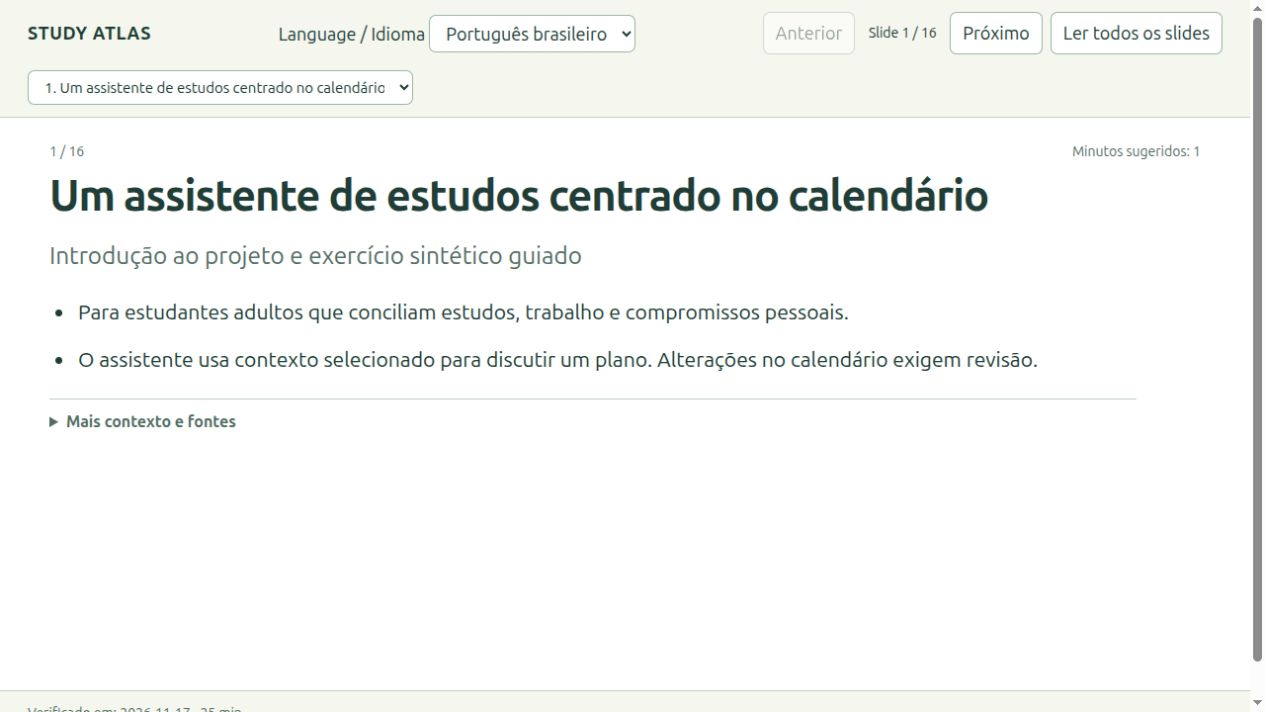
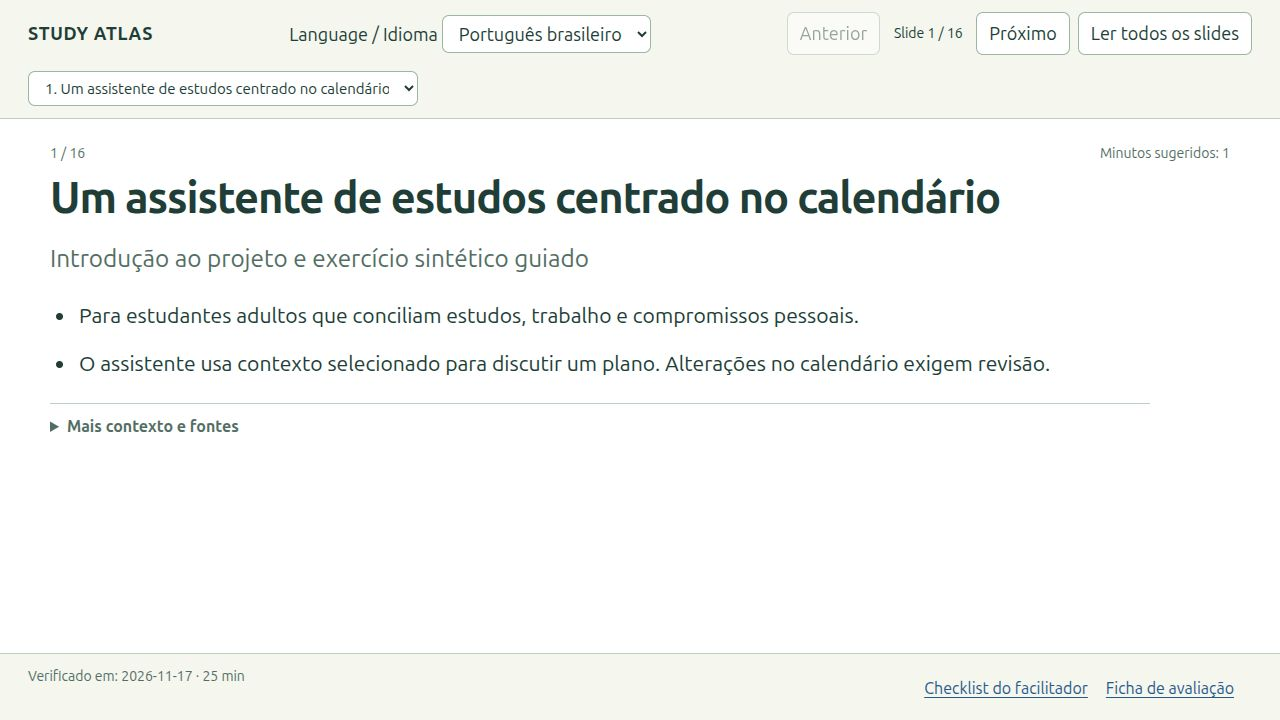
Keep the onboarding verification footer visible

diff --git a/docs/onboarding/presentation/style.css b/docs/onboarding/presentation/style.css
@@ -1,4 +1,4 @@
-:root{color-scheme:light;--paper:#f5f7ef;--ink:#203d37;--muted:#536d64;--line:#becfc1;--accent:#245e4a}*{box-sizing:border-box}body{margin:0;background:var(--paper);color:var(--ink);font:18px/1.5 system-ui,sans-serif}header,footer{max-width:1400px;margin:auto;padding:12px 28px}header{display:flex;align-items:center;gap:16px;justify-content:space-between;flex-wrap:wrap;border-bottom:1px solid var(--line)}header>strong{letter-spacing:.04em}nav{display:flex;gap:8px;align-items:center;flex-wrap:wrap}button,select{font:inherit;color:var(--ink);background:white;border:1px solid #9cb6a6;border-radius:7px;padding:7px 12px;max-width:100%}button{cursor:pointer}button:disabled{opacity:.45;cursor:default}:focus-visible{outline:3px solid #315d9b;outline-offset:3px}#topics{font-size:15px;max-width:390px}#slides{max-width:1400px;margin:auto}.slide{padding:24px 50px 32px;min-height:calc(100vh - 140px);background:#fff;border-bottom:1px solid var(--line)}.slide-meta{display:flex;justify-content:space-between;font-size:14px;color:var(--muted);margin-bottom:8px}h1{font-size:clamp(30px,3.4vw,48px);line-height:1.14;font-weight:650;max-width:1100px;margin:8px 0 18px;letter-spacing:-.025em}h1+p{font-size:clamp(19px,1.9vw,25px);color:var(--muted);margin:0 0 24px;max-width:1000px}.body{font-size:clamp(18px,1.65vw,23px)}.with-image{display:grid;grid-template-columns:minmax(300px,1fr) minmax(380px,1.12fr);gap:28px;align-items:start}ul,ol{padding-left:26px;margin:0}li{padding-left:3px;margin-bottom:16px}figure{margin:0}figure img{width:100%;max-height:60vh;object-fit:contain;object-position:top;border:1px solid var(--line)}figcaption{font-size:13px;color:var(--muted);margin-top:4px}table{width:100%;border-collapse:collapse;font-size:clamp(17px,1.35vw,19px)}th{text-align:left;font-weight:650;border-bottom:2px solid var(--line)}td,th{padding:8px 12px 8px 0;vertical-align:top}td{border-bottom:1px solid #dce5dc}td:first-child{width:26%;font-weight:600}pre{font:clamp(14px,1.45vw,20px)/1.55 ui-monospace,monospace;background:#f0f4ed;border-left:4px solid var(--accent);padding:18px;white-space:pre-wrap;overflow-wrap:anywhere;margin:0 0 18px}details{margin-top:24px;border-top:1px solid var(--line);padding-top:10px;font-size:16px;color:var(--muted);max-width:1100px}summary{cursor:pointer;font-weight:600}details li{margin-bottom:6px}.references a,footer a{display:inline-block;margin:10px 18px 0 0;font-size:16px}a{color:#28598b;text-underline-offset:3px}footer{display:flex;justify-content:space-between;flex-wrap:wrap;gap:12px;font-size:14px;color:var(--muted)}#position{font-size:14px;min-width:80px;text-align:center}.doc{max-width:980px;margin:24px auto;background:#fff;padding:28px}.doc h1{font-size:32px}.doc h2{font-size:25px;margin-top:34px}.doc h3{font-size:21px}.doc table{font-size:16px}.doc li{margin-bottom:10px}.doc code{font-size:15px;overflow-wrap:anywhere}.doc p{overflow-wrap:anywhere}@media(max-width:900px){header,footer{padding:12px 16px}.slide{padding:22px 20px}.with-image{grid-template-columns:1fr}.with-image figure img{max-height:none}.slide-meta{font-size:12px}table{font-size:16px}#topics{max-width:calc(100vw - 40px)}.doc{margin:0;padding:18px}}@media print{header,footer,.slide-meta{display:none}.slide{break-after:page;min-height:0;padding:20px}details{display:none}figure img{max-height:65vh}body{font-size:16px}h1{font-size:30px}.body{font-size:18px}}
+:root{color-scheme:light;--paper:#f5f7ef;--ink:#203d37;--muted:#536d64;--line:#becfc1;--accent:#245e4a}*{box-sizing:border-box}body{margin:0;background:var(--paper);color:var(--ink);font:18px/1.5 system-ui,sans-serif}header,footer{max-width:1400px;margin:auto;padding:12px 28px}header{display:flex;align-items:center;gap:16px;justify-content:space-between;flex-wrap:wrap;border-bottom:1px solid var(--line)}header>strong{letter-spacing:.04em}nav{display:flex;gap:8px;align-items:center;flex-wrap:wrap}button,select{font:inherit;color:var(--ink);background:white;border:1px solid #9cb6a6;border-radius:7px;padding:7px 12px;max-width:100%}button{cursor:pointer}button:disabled{opacity:.45;cursor:default}:focus-visible{outline:3px solid #315d9b;outline-offset:3px}#topics{font-size:15px;max-width:390px}#slides{max-width:1400px;margin:auto}.slide{padding:24px 50px 32px;min-height:calc(100vh - 185px);background:#fff;border-bottom:1px solid var(--line)}.slide-meta{display:flex;justify-content:space-between;font-size:14px;color:var(--muted);margin-bottom:8px}h1{font-size:clamp(30px,3.4vw,48px);line-height:1.14;font-weight:650;max-width:1100px;margin:8px 0 18px;letter-spacing:-.025em}h1+p{font-size:clamp(19px,1.9vw,25px);color:var(--muted);margin:0 0 24px;max-width:1000px}.body{font-size:clamp(18px,1.65vw,23px)}.with-image{display:grid;grid-template-columns:minmax(300px,1fr) minmax(380px,1.12fr);gap:28px;align-items:start}ul,ol{padding-left:26px;margin:0}li{padding-left:3px;margin-bottom:16px}figure{margin:0}figure img{width:100%;max-height:60vh;object-fit:contain;object-position:top;border:1px solid var(--line)}figcaption{font-size:13px;color:var(--muted);margin-top:4px}table{width:100%;border-collapse:collapse;font-size:clamp(17px,1.35vw,19px)}th{text-align:left;font-weight:650;border-bottom:2px solid var(--line)}td,th{padding:8px 12px 8px 0;vertical-align:top}td{border-bottom:1px solid #dce5dc}td:first-child{width:26%;font-weight:600}pre{font:clamp(14px,1.45vw,20px)/1.55 ui-monospace,monospace;background:#f0f4ed;border-left:4px solid var(--accent);padding:18px;white-space:pre-wrap;overflow-wrap:anywhere;margin:0 0 18px}details{margin-top:24px;border-top:1px solid var(--line);padding-top:10px;font-size:16px;color:var(--muted);max-width:1100px}summary{cursor:pointer;font-weight:600}details li{margin-bottom:6px}.references a,footer a{display:inline-block;margin:10px 18px 0 0;font-size:16px}a{color:#28598b;text-underline-offset:3px}footer{display:flex;justify-content:space-between;flex-wrap:wrap;gap:12px;font-size:14px;color:var(--muted)}#position{font-size:14px;min-width:80px;text-align:center}.doc{max-width:980px;margin:24px auto;background:#fff;padding:28px}.doc h1{font-size:32px}.doc h2{font-size:25px;margin-top:34px}.doc h3{font-size:21px}.doc table{font-size:16px}.doc li{margin-bottom:10px}.doc code{font-size:15px;overflow-wrap:anywhere}.doc p{overflow-wrap:anywhere}@media(max-width:900px){header,footer{padding:12px 16px}.slide{padding:22px 20px}.with-image{grid-template-columns:1fr}.with-image figure img{max-height:none}.slide-meta{font-size:12px}table{font-size:16px}#topics{max-width:calc(100vw - 40px)}.doc{margin:0;padding:18px}}@media print{header,footer,.slide-meta{display:none}.slide{break-after:page;min-height:0;padding:20px}details{display:none}figure img{max-height:65vh}body{font-size:16px}h1{font-size:30px}.body{font-size:18px}}
 
 #more:not([hidden]){position:fixed;right:18px;bottom:12px;z-index:10;background:#fff5d9;border-color:#9e7331;font-size:15px;box-shadow:0 2px 8px #0002}@media print{#more{display:none}}
 .table-scroll{max-width:100%;overflow-x:auto}.table-hint{display:none}@media(max-width:760px){.doc .table-scroll table{min-width:720px}.doc .table-hint{display:block;position:sticky;left:0;font-size:14px;color:var(--muted);margin:0 0 8px}}
